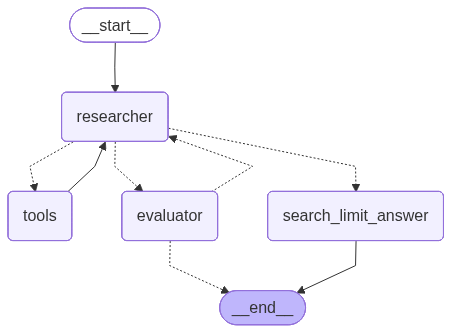
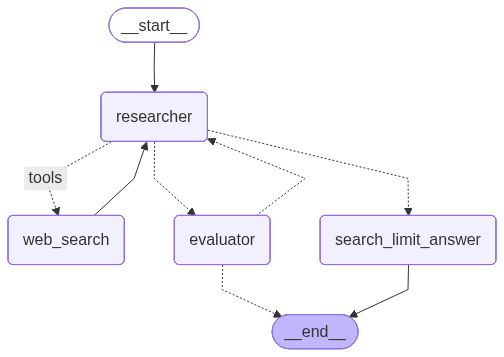
Update diagram

diff --git a/src/agents/researcher.py b/src/agents/researcher.py
@@ -8,7 +8,7 @@ from src.tools import tools
 # Node name constants
 RESEARCHER_NODE = "researcher"
 EVALUATOR_NODE = "evaluator"
-TOOL_NODE = "tools"
+WEB_SEARCH_NODE = "web_search"
 SEARCH_LIMIT_ANSWER_NODE = "search_limit_answer"
 
 
@@ -34,7 +34,7 @@ def route_after_evaluation(state: AgentState) -> str:
 workflow = StateGraph(AgentState)
 
 workflow.add_node(RESEARCHER_NODE, researcher_node)
-workflow.add_node(TOOL_NODE, ToolNode(tools))
+workflow.add_node(WEB_SEARCH_NODE, ToolNode(tools))
 workflow.add_node(EVALUATOR_NODE, evaluator_node)
 workflow.add_node(SEARCH_LIMIT_ANSWER_NODE, search_limit_answer_node)
 
@@ -44,13 +44,13 @@ workflow.add_conditional_edges(
     RESEARCHER_NODE,
     route_after_researcher,
     {
-        TOOL_NODE: TOOL_NODE,
+        "tools": WEB_SEARCH_NODE,
         EVALUATOR_NODE: EVALUATOR_NODE,
         SEARCH_LIMIT_ANSWER_NODE: SEARCH_LIMIT_ANSWER_NODE,
     },
 )
 
-workflow.add_edge(TOOL_NODE, RESEARCHER_NODE)
+workflow.add_edge(WEB_SEARCH_NODE, RESEARCHER_NODE)
 
 workflow.add_conditional_edges(
     EVALUATOR_NODE,

diff --git a/src/main.py b/src/main.py
@@ -21,7 +21,7 @@ console = Console()
 
 NODE_STYLES = {
     "researcher": ("bold cyan", "🔍"),
-    "tools": ("bold yellow", "🔧"),
+    "web_search": ("bold yellow", "🔧"),
     "evaluator": ("bold magenta", "⚖"),
     "search_limit_answer": ("bold green", "✨"),
 }
